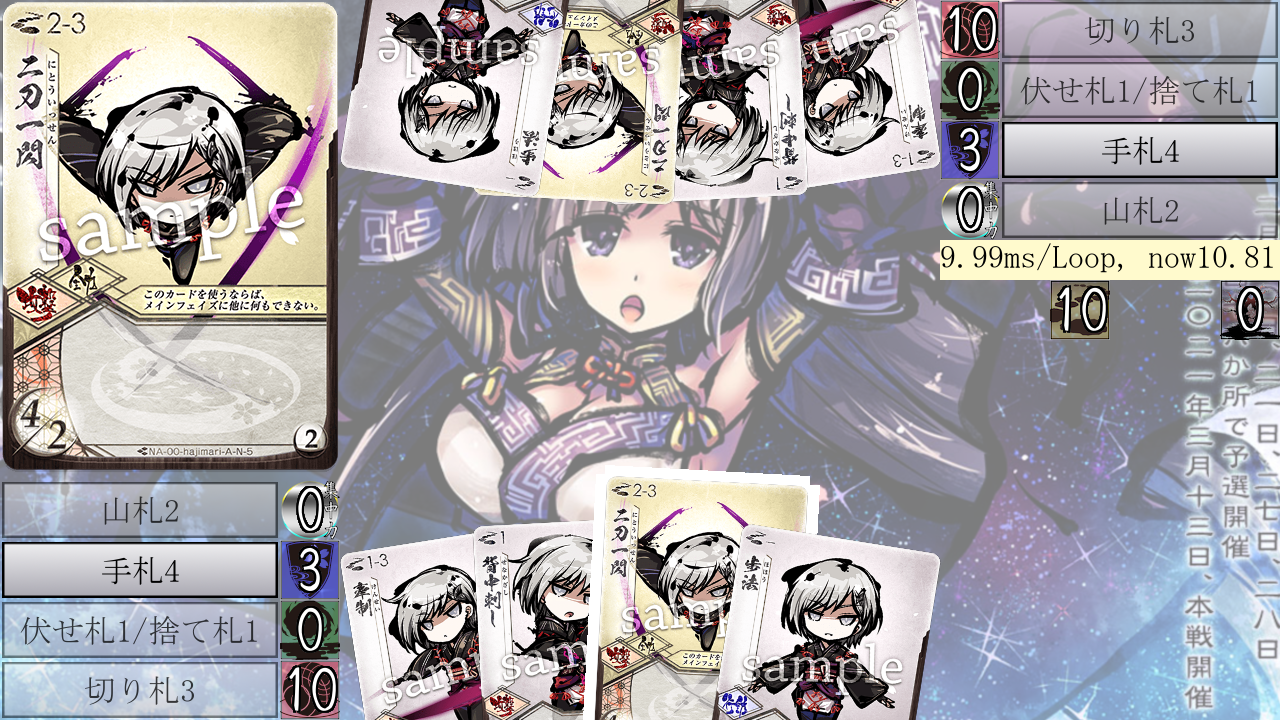
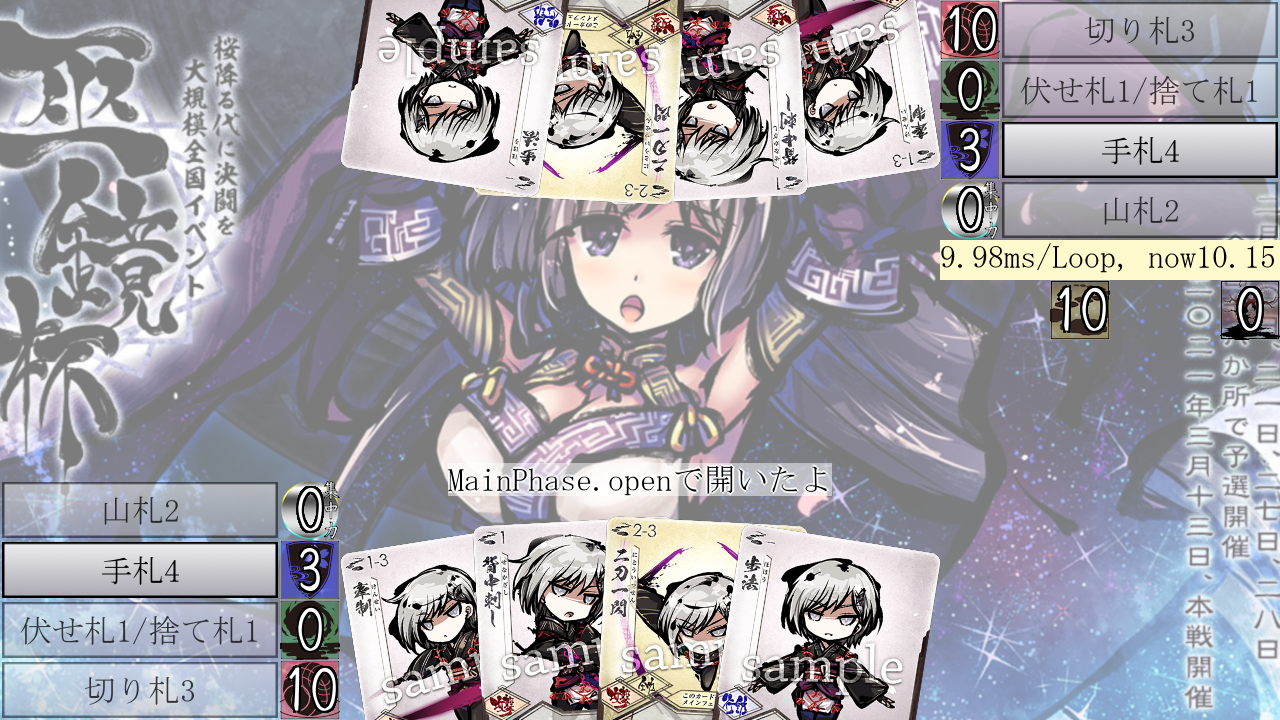
J172:ポップアップを白抜きで強調表示に

diff --git a/mod/popup_message.py b/mod/popup_message.py
@@ -1,11 +1,16 @@
 from pygame.surface import Surface
 from pygame.math import Vector2
 
-from mod.const import screen, WX, WY, BLACK, WHITE, MS_MINCHO_32PT
+from mod.const import screen, WX, WY, BLACK, WHITE, MS_MINCHO_32PT, MS_MINCHO_WHITE_32PT
 
 class _Queue:
     def __init__(self, text: str, color: tuple[int, int, int] = BLACK) -> None:
-        self.img_text = MS_MINCHO_32PT(text)
+        kuro_text, siro_text = MS_MINCHO_32PT(text).convert_alpha(), MS_MINCHO_WHITE_32PT(text).convert_alpha()
+        self.img_text = Surface(kuro_text.get_size()).convert_alpha()
+        self.img_text.fill((0, 0, 0, 0))
+        for i in [[0, -2], [0, 2], [-2, 0], [2, 0]]:
+            self.img_text.blit(source=siro_text, dest=i)
+        self.img_text.blit(source=kuro_text, dest=[0, 0])
         self.img_shadow = Surface(self.img_text.get_size())
         self.img_shadow.fill(WHITE)
         self.lifetime: int = 90

diff --git a/mod/const.py b/mod/const.py
@@ -38,7 +38,8 @@ WHITE = (255, 255, 255)
 FRAMES_PER_SECOND = 30
 CARDS = 9
 _MS_MINCHO_32PT_FONT = pygame.font.Font("msmincho001.ttf", 32)
-MS_MINCHO_32PT: Callable[[str], Surface] = lambda s: _MS_MINCHO_32PT_FONT.render(s, True, (0, 0, 0))
+MS_MINCHO_32PT: Callable[[str], Surface] = lambda s: _MS_MINCHO_32PT_FONT.render(s, True, BLACK)
+MS_MINCHO_WHITE_32PT: Callable[[str], Surface] = lambda s: _MS_MINCHO_32PT_FONT.render(s, True, WHITE)
 AIHARA_KURO: Callable[[str, int], Surface] = lambda s, i: pygame.font.Font("Aiharahudemojikaisho_free305.ttf", i).render(s, True, (0, 0, 0))
 MS_MINCHO: Callable[[str, int], Surface] = lambda s, i: pygame.font.Font("msmincho001.ttf", i).render(s, True, (0, 0, 0))
 UTURO: Callable[[int], Surface] = lambda i: pygame.image.load(f"cards/na_00_hajimari_a_n_{i}.png").convert_alpha()

diff --git a/mod/controller.py b/mod/controller.py
@@ -20,7 +20,7 @@ class Controller():
     def resolve_pygame_events(self) -> None:
         for event in pygame.event.get():
             if event.type == QUIT:
-                # pygame.image.save(screen, "screenshot.png")
+                pygame.image.save(screen, "screenshot.png")
                 pygame.quit()
                 sys.exit()
             elif event.type == MOUSEMOTION:
